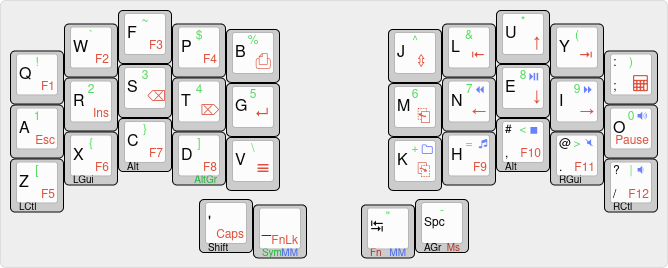
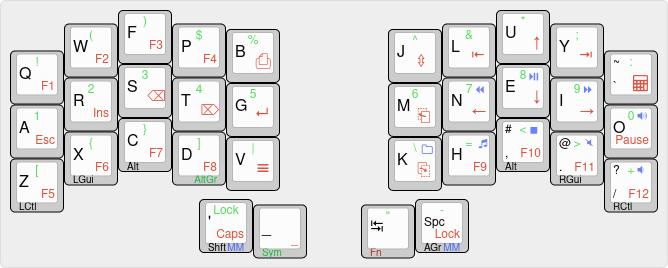
kolibri: Update documentation
* Num-pad versions of Sym layer
* Optimized Sym layers
* Sym layer locking
* Separate Media and Macro layers
* Three thumb-key version

diff --git a/keyboards/keebio/iris/keymaps/kolibri/readme.md b/keyboards/keebio/iris/keymaps/kolibri/readme.md
@@ -1,70 +1,134 @@
-![Layout Overview](kle-kolibri.png)
-
 # Kolibri
 
-Kolobri is a keymap for small ergonomic/split keyboards with 3x5 keys and 2 thumb keys per hand. It is designed to be fully functional, comfortable and intuitive to use, easy to learn and well suited for fast typing and programming. Major highlights are:
+Kolobri is a keymap for small ergonomic/split keyboards with 3x5 keys and 2 or 3 thumb keys per hand. It is designed to be fully functional, comfortable and intuitive to use, easy to learn and well suited for fast typing and programming.
+
+![Layout Overview](kle-kolibri.png)
+
+Major highlights are:
 
 * Shift, AltGr and layer keys on thumbs
 * Bottom-row mod-taps for remaining modifiers
 * Space, Tab, Underscore and Apostrophe on thumbs
+* Optimized Symbol layer
 * Per-key mod-tap configuration to favour "tap" on fingers and Space, "hold" on other thumb keys
 * Non-AltGr letters, symbols and numbers accessible with at most one modifier (either Shift or Sym layer key)
 * Most frequent keys on the home row: numbers, arrows, editing, Esc
 * One-handed use of arrow keys
-* Fn layer can be locked
-* Options for left or right-handed thumb clusters and Function layers
+* Function and Symbol layers can be locked
+* Options for num-pad, left or right-handed thumb clusters and Function layers
 
 _[Groma Kolibri](https://typewriterreview.com/2015/11/19/groma-kolibri/) was the brand of my father's mechanical typewriter, the first I ever learned typing on as a kid. Kolibri is also the German word for hummingbird. Those two associations make it a fitting name for a small keyboard layout._
 
 # Layer Design
 
-The basic keyboard functionality is on three layers: Base (e.g. Colemak or QWERTY), Sym, Fn. A fourth Ctl+Macro layer adds keyboard control (backlight, reset, etc.), media keys and macros. It is activated by holding both layer keys.
+The basic keyboard functionality is on three layers: Base (e.g. Colemak or QWERTY), Sym, Fn. Additional layers for less frequently used Media keys and Macros are activated by holding two thumb keys at the same time.
 
-The Fn layer can be locked. In this mode the Fn layer key temporarily activates a base-layer overlay to allow inserting a few characters without unlocking Fn. The Sym layer can also be activated on top of the locked Fn layer.
-
-An optional Mouse layer can be enabled via the locked Fn layer. With more thumb keys per hand it could have a dedicated layer key on the base layer.
+Both the Fn and Sym layer can be locked. In this mode the respective layer key temporarily activates a base-layer overlay to allow inserting a few characters without unlocking Fn/Sym. This is analogous to using Shift while CapsLock is enabled to type lower-case letters. The Sym layer can also be activated on top of the locked Fn layer and vice versa.
 
 Ctrl, Gui and Alt modifiers are consistent across all layers, in the outer columns of the bottom row.
+
+With a 3rd thumb key, Alt moves to the left thumb, reducing the number of bottom-row mod-taps.
+
+![36-key layout with num-pad](kle-kolibri36-numpad.png)
 
 ## Base Layer
 
 ```
- Q   W   F   P   B       J   L   U   Y   ;:
+ Q   W   F   P   B       J   L   U   Y   `~
 
  A   R   S   T   G       M   N   E   I   O
 
- Z   X   C   D   V       K   H   ,#  .@  /?
+ Z   X   C   D   V       K   H   ,@  .#  /?
 Ctl Gui Alt                     Alt Gui Ctl
              '   _      Tab Spc
            Shft Sym     Fn AltGr
 ```
 
-Other than the bottom-row mod-taps, the 3x5 finger keys are mostly standard Colemak or QWERTY, with two exceptions: The shifted symbols of ',' and '.' (normally '<' and '>') are moved to the Sym layer to avoid the thumb jumping between Shift and Sym for common bigrams such as '->', '<=' and '>='. They are replaced on the base layer with '#' and '@', which are not typically used in bigrams with other symbols.
+Other than the bottom-row mod-taps, the 3x5 finger keys are mostly standard Colemak or QWERTY, with three exceptions: The shifted symbols of ',' and '.' (normally '<' and '>') are moved to the Sym layer to avoid the thumb jumping between Shift and Sym for common bigrams such as '->', '<=' and '>='. They are replaced on the base layer with '@' and '#', which are not typically used in bigrams with other symbols. The ';:' key also moves to the Sym layer and is replaced with '`~' to further reduce layer switching while coding or typing emoticons.
 
 For right-handed users, Shift is on the left thumb, AltGr on the right. This choice dictates much of the rest of the thumb cluster layout. The left thumb activates the Sym layer that needs AltGr, and the right thumb activates the Fn layer that needs Shift. Space and Tab are on the right thumb and can be combined with Shift. Shift and Space, are on the home positions of the thumbs.
 
 Two symbols do not fit in the Sym layer and need to move to the left thumb on the base layer. Apostrophe and Underscore are convenient choices for typing and programming respectively. Apostrophe is placed on the Shift key to avoid the thumb jumping when typing "I'm". Underscore is on the Sym layer key, which forces the thumb to jump when typing "UPPER_CASE_MACRO" names and avoids accidentally activating a tap+hold of Underscore instead of holding Shift.
 
+### Three thumb-key version
+
+```
+ Q   W   F   P   B       J   L   U   Y   `~
+
+ A   R   S   T   G       M   N   E   I   O
+
+ Z   X   C   D   V       K   H   ,@  .#  /?
+Ctl Gui                              Gui Ctl
+        Alt  '   _      Tab Spc Del
+           Shft Sym      Fn    AltGr
+```
+
+A third thumb key is used to move Alt to the left thumb as a one-shot mod. This removes two bottom-row mod-taps from all layers. The one-shot mod makes Alt usable together with Shift and with the Sym layer.
+
+The third thumb key on the right is used to duplicate Del on the base layer. AltGr also moves to that key to make Space a single function key.
+
 ## Sym Layer
 
 ```
- !   `   ~   $   %       ^   &   *   (   )
+ !   (   )   $   %       ^   &   *   ;   :
 
  1   2   3   4   5       6   7   8   9   0
 
- [   {   }   ]   \       +   =   <   >   |
+ [   {   }   ]   |       \   =   <   >   +
 Ctl Gui Alt AGr                 Alt Gui Ctl
-            ___ ___      "   -
-                        C+M AGr
+            Lck ___      "   -
+           Media         Fn AltGr
+Locked:     Spc Tab      "   -
+                Base     Fn AltGr
 ```
 
-This layer works without the Shift key. Numbers are on the home row. The corresponding shifted number symbols are in the upper row (except '#' and '@', which are replacing '<' and '>' on the base layer). This should be intuitive for users of TKL keyboards.
+This layer works without the Shift key. Numbers are on the home row. The corresponding shifted number symbols are in the upper row (except '#' and '@', which are replacing '<' and '>' on the base layer and parentheses, which moved to a more comfortable and logical position on the left hand). This should be intuitive for users of TKL keyboards. ';' and ':' are close to their usual position in the top right.
 
-'<' and '>' keep their normal positions, so the only thing that changes is the "Shift" key used to activate them. '|' takes the place of '/'. '+' and '=' take the remaining right-hand bottom-row keys, which puts most of the common math and logical operators on the right hand.
+'<' and '>' keep their normal positions, so the only thing that changes is the "Shift" key used to activate them. The layer is optimized for comfortably typing common bigrams with '=' and '-' (e.g. <= >= != += -= := ->).
 
-The left bottom row has brackets, curly braces and '\\'. The nested arrangement of the brackets around the curly braces makes the "[]" bigram easier to type than having the closed bracket on the ring finger.
+The left bottom row has brackets. The nested arrangement of the brackets around the curly braces makes the "[]" bigram easier to type than having the closed bracket on the ring finger.
 
 The right thumb types double quotes and '-'. Since '-' is often surrounded by Space, it uses the same key as Space. That way the right thumb doesn't need to jump when typing such sequences. A second AltGr mod-tap key is added in the left bottom row to allow modifying the two symbols on the right thumb.
+
+The Sym layer can be locked by tapping the other left thumb key with the index finger while holding the Sym key with the thumb. The same key combination disables Sym layer lock again. The locked Sym layer adds Space and Tab keys on the left hand.
+
+Holding the two left thumb keys activates the Media layer for the right hand.
+
+### Num-pad version and three thumb keys
+
+```
+ \   (   )   $   %       ^   7   8   9   :
+
+ !   <   =   >   ;       *   4   5   6   -
+
+ [   {   }   ]   |       &   1   2   3   +
+Ctl Gui AGr                         Gui Ctl
+        Alt Lck ___      "   0   .
+           Media         Fn    AltGr
+Locked: Alt Spc Tab      "   0   .
+                Base     Fn    AltGr
+```
+
+This version of the Sym layer implements a num-pad in the right hand that is more familiar and comfortable for users doing numerical data entry. It tries to maintain commonality with the number row version of the Sym layer where practical. Common bigrams with '-' and '=' are optimized differently.
+
+The layer is shown above with three thumb keys. This moves Alt to the left thumb. It duplicates '.' on the 3rd thumb key on the right and also moves AltGr to that key for consistency with the base layer.
+
+## Left-handed num-pad
+
+```
+ |   7   8   9   %       ^   $   (   )   :
+
+ -   4   5   6   *       ;   [   {   }   ]
+
+ +   1   2   3   &       \   =   <   >   !
+Ctl Gui                         AGr Gui Ctl
+         .   0   "      ___ Lck Alt
+       AltGr     Fn        Media
+Locked:  .   0   "      Tab Spc Alt
+       AltGr     Fn    Base
+```
+
+When using the left-handed version of Kolibri, a different num-pad layer is used with the number keys on the left (AKA southpaw). Some of the other symbols are also moved around to keep '<' and '>' on their normal positions in the bottom row and maintain more commonality with the number row version.
 
 ## Fn Layer
 
@@ -75,10 +139,10 @@ Esc Ins  ⌫   ⌦   ↲     PgUp  ←   ↓   →  Paus
 
  F5  F6  F7  F8 Menu   PgDn  F9 F10 F11 F12
 Ctl Gui Alt                     Alt Gui Ctl
-           Caps FnLk    ___ ___
-           Shft C+M
-FnLk:      Caps  _      Tab Spc
-FnLk:      Shft Sym    Base Mouse
+           Caps  _      ___ Lck
+           Shft Sym        Macro
+Locked:    Caps  _      Tab Spc
+           Shft Sym    Base Mouse
 ```
 
 The Fn layer has an inverted-T arrow key cluster in the home position of the right hand. Home and End keys are left and right of the Up key. PageUp/Down are on the inner index-finger column, where there are no mod-taps affecting key-repeat. Like on a normal keyboard, the arrow keys can be used one-handed.
@@ -89,9 +153,11 @@ The F-keys are arranged in groups of four: F1-F4 in top-left, F5-F8 in bottom-le
 
 Tapping the Shift key on this layer toggles CapsLock.
 
-The Fn layer can be locked to reduce strain and free up the right thumb to type Space and Tab while editing or fixing indentation. The same key combination is used to lock and unlock the layer: hold Fn + tap FnLock. The locked Fn layer is below the Sym layer in the layer stack, so the Sym key still works on this layer. Holding the Fn key while the Fn layer is locked temporarily disables the Fn layer to allow typing text without unlocking Fn. This is analogous to using Shift while CapsLock is enabled to type lower-case letters.
+The Fn layer can be locked to reduce strain and free up the right thumb to type Space and Tab while editing or fixing indentation. The same key combination is used to lock and unlock the layer: hold Fn with the right thumb + tap Lck with the right index finger.
 
-AltGr is replaced by a Mouse layer key if mouse keys are enabled.
+AltGr is replaced by a Mouse layer key on the locked Fn layer if mouse keys are enabled.
+
+Holding the two right thumb keys activates the Macro layer for the left hand.
 
 ## Alternative Fn Layers (TODO)
 
@@ -102,8 +168,8 @@ Esc Ins  ⌫   ⌦   ↲     Calc  ←   ↓   ↑   →
 
  F5  F6  F7  F8 Menu   Paus  F9 F10 F11 F12
 Ctl Gui Alt                     Alt Gui Ctl
-           Caps FnLk    ___ ___
-           Shft C+M
+           Caps  _      ___ Lck
+           Shft Sym        Macro
 FnLk:      Caps  _      Tab Spc
 FnLk:      Shft Sym    Base Mouse
 ```
@@ -112,7 +178,7 @@ An alternative navigation layer puts all the arrow keys in the home row, and pag
 
 Arrow keys on the right hand enable one-handed navigation or lazy browsing with only one hand on the keyboard. Some users may prefer the arrow keys in the left hand to reduce strain from holding the layer key with the same thumb. That would move the editing keys and Esc to the right instead. This variant can be combined with either of the arrow-key layouts.
 
-## Ctrl+Macro Layer
+## Media and Macro Layers
 
 ```
 Rst(Prnt Up  Dn)Dbg   (Mode Spd Val Sat Hue )
@@ -121,10 +187,12 @@ Rst(Prnt Up  Dn)Dbg   (Mode Spd Val Sat Hue )
 [   User Macros    ]  [        Media        ]
 [M5  M6  M7  M8  M9]  [MyCm Sel Stp Mut Vol-]
 
-            ___ ___     ___ ___
+           Shft XXX     XXX Shft
 ```
 
-This layer controls QMK features (Reset, Dynamic tapping, Debug), RGB underglow, Media keys, and up to 10 personalized macros.
+These are implemented as two separate layers for the left and right hand, that are activated by holding the two thumb keys on the opposite hand. Each side has a functioning Shift key.
+
+The left hand controls QMK features (Reset, Dynamic tapping, Debug) and up do 10 personalized macros. The right hand controls RGB underglow and Media keys.
 
 TODO: special combination of thumb keys to reset all layer states and CapsLock.
 
@@ -149,7 +217,7 @@ The thumb keys have Shift and one key to control mouse acceleration.
 
 Kolibri works best for US-English QWERTY and Colemak layouts where the OS keymap is set to US-English or a derived International layout with extra symbols on an AltGr layer.
 
-Using Dvorak would require small changes to some symbol key positions since quotes would end up on the left pinky instead of thumb keys. Or Quotes could keep their Kolibri positions on the thumb keys and the left pinky gets ';:' instead.
+Using Dvorak would require small changes to some symbol key positions since quotes would end up on the left pinky instead of thumb keys. Or Quotes could keep their Kolibri positions on the thumb keys and the left pinky gets '`~' instead.
 
 Native support for other languages would require tweaks to the base and symbol layers. ISO keyboard layouts have one more key. To fit that, one key would need to move to the Fn layer.
 
@@ -157,26 +225,28 @@ Native support for other languages would require tweaks to the base and symbol l
 
 Split 3x5 keyboards are some of the most ergonomic keyboards available, as all keys are within easy reach without stretching or moving the hands. A popular layout for such keyboards is [Miryoku](https://github.com/manna-harbour/miryoku). But its use of home-row mods is not for everyone. Especially Shift as mod-tap on a home-row key leads to frequent ambiguity between mod+tap or tap-tap that can hurt typing flow.
 
-Kolibri is designed to be a fully functional alternative that is comfortable and intuitive to use with as little as possible getting in the way of typing or coding. It aims to be easy to remember and learn for anyone coming from a TKL or similar keyboard without a num-pad. Requiring only two thumb keys per hand makes it compatible with a wide range of keyboards out of the box.
+Kolibri is designed to be a fully functional alternative that is comfortable and intuitive to use with as little as possible getting in the way of typing or coding. It aims to be easy to remember and learn for anyone coming from a TKL or similar keyboard. There is also a version with a num-pad style Symbol layer. Requiring only two thumb keys per hand makes it compatible with a wide range of keyboards out of the box.
 
 For full functionality and comfort, all modifier+key combinations must be possible to type without reaching or straining. The thumbs can only hold two modifiers or layer keys at the same time. Therefore most modifiers have to be assigned to fingers, with no more than one modifier per finger. On a 3x5 layout this requires some keys to be dual-function keys. Modifier keys must be duplicated on both hands to avoid contortions and to make modifying any key possible.
 
 Shift and AltGr are conceptually layer switching keys, except they are handled by the host rather than the keyboard firmware. Placing them on thumb keys along with firmware layer switching keys feels intuitive, while minimizing the use of problematic mod-tap or layer-tap keys in the 3x5 typing area. Moving remaining mod-taps to less frequently used bottom-row keys further reduces the impact on typing flow. Per-key mod-tap configuration can unambiguously favour "tap" on fingers and Space, and "hold" on Shift and layer thumb keys.
 
+With three thumb keys per hand, Alt can be made a one-shot-mod on a thumb key to further minimize bottom-row mods.
+
 ## Design Choices and Constraints
 
-* 3x5 with 2 thumb keys per hand
+* 3x5 with 2 thumb keys per hand (3rd key optional)
 * Shift, AltGr and layer keys on the thumbs
-* Bottom-row mods for Ctrl, Gui, Alt
+* Bottom-row mods for Ctrl, Gui, (Alt with 2 thumb keys per hand)
 * Space and Tab on thumbs on the base layer
 * Only one Space and one Shift key
 * Use home row for most frequent keys on layers: editing, navigation, numbers
 * Esc on the home row for use in Vim
 * One-handed arrow keys for lazy browsing
 
-With Shift and AltGr on thumbs, the remaining thumb keys are are too few for many Miryoku-style one-handed layers. Therefore this keymap uses fewer layers, which span both hands. Consequently mod-tap modifiers are needed on both hands on all layers to allow all modifier+key combinations, and combinations of thumb modifier/layer with same-hand finger keys are common by design.
+With Shift and AltGr on thumbs, the remaining thumb keys are are too few for many Miryoku-style one-handed layers. Therefore this keymap uses fewer layers, which span both hands. Consequently mod-tap modifiers are needed on both hands on all layers to allow all modifier+key combinations.
 
-This design choice is prominently applied to arrow keys, which are on the same hand as the Fn layer key, so they can be used with one hand for lazy browsing and navigation in documents.
+Combinations of a thumb modifier/layer key with same-hand finger keys are common by design. This design choice is prominently applied to arrow keys, which are on the same hand as the Fn layer key, so they can be used with one hand for lazy browsing and navigation in documents.
 
 Shift and AltGr must be on opposite thumbs to allow Shift+AltGr combinations. Right-handed users need Shift on the left thumb so it can be used as a modifier with the mouse. Space and Tab must be on the right thumb to allow combinations with Shift. The layer descriptions assume right-handedness. However, a version with flipped thumb-cluster is available for left-handed users.
 
@@ -184,14 +254,16 @@ Layers can use either Shift or AltGr, but not both, because one thumb is already
 
 Mod-tap keys require two presses in quick succession to enable key-repeat. Therefore keys that are frequently used with key-repeat, such as arrow keys, will not be placed on bottom-row modifier keys.
 
-All four thumb keys are dual-function keys. With 3 thumb keys per hand, Space and Shift could be made single-function keys. The choice of "tap" functions of the base layer thumb keys is driven both by utility on the base layer and space-constraints on the Sym layer:
+All four thumb keys are dual-function keys. With three thumb keys per hand, Space can be made a single-function key. The choice of "tap" functions of the base layer thumb keys is driven both by utility on the base layer and space-constraints on the Sym layer:
 
 * Space (obvious)
 * Tab (Tab-completion, Alt+Tab, switching between UI elements, indentation)
 * Underscore (snake_case names when programming)
 * Apostrophe (I'm sure this doesn't need an explanation. It's obvious, isn't it?)
+* 3rd left thumb-key: one-shot Alt
+* 3rd right thumb-key: duplicate Del (one-handed Delete in GUI apps)
 
-Enter is deliberately not on a thumb key to avoid pressing it accidentally. Backspace and Delete are quicker and more comfortable to hit repeatedly with one of the strong fingers on the Fn layer.
+Enter is deliberately not on a thumb key to avoid pressing it accidentally when switching layers. Backspace and Delete are quicker and more comfortable to hit repeatedly with one of the strong fingers on the Fn layer. However, a one-handed duplicate Del key is available on an optional 3rd thumb key.
 
 # QMK hacks
 
@@ -205,17 +277,19 @@ To make the tap-function of mod-taps on layers behave intuitively, a fix for [Bu
 
 ## Mod-Tap with Shifted Symbols
 
-Mod-Tap only works with 8-bit keycodes. Extended keycodes that apply a modifier (e.g. Shift for upper case letters) don't work with it out of the box. The QMK documentation suggests a [workaround that intercepts `process_record_user` and sends 16 bit keycodes with `tap_code16`](https://docs.qmk.fm/#/mod_tap?id=intercepting-mod-taps). I modified this idea to use the proper `register_code16` and `unregister_code16` calls to get tap+hold key-repeat.
+Mod-Tap only works with 8-bit keycodes. Extended keycodes that apply a modifier (e.g. Shift for upper case letters) don't work with it out of the box. The QMK documentation suggests a [workaround that intercepts `process_record_user` and sends 16 bit keycodes with `tap_code16`](https://docs.qmk.fm/#/mod_tap?id=intercepting-mod-taps). I modified this idea to use the proper `register_code16` and `unregister_code16` calls to get tap+hold key-repeat. The Shift modifier is cleared immediately with `clear_weak_mods` to prevent it from affecting the next tap of another key within the tapping term.
 
 ## Moving '<' and '>' to the Sym layer
 
 Replacing '<' and '>' on the base layer is done with a small hack in `process_record_user` that sends different keycodes when `KC_COMM` or `KC_DOT` are pressed with Shift held. Some more care is taken to release the modified keys correctly even if Shift is released first.
 
-## Fn layer lock
+## Layer lock
 
-The locked layer is mostly a copy of the normal layer but with different thumb-key assignments. This allows overriding the locked Fn layer with Sym or a base layer overlay. And it keeps the key combination to get to the Ctl+Macro layer consistent in all cases.
+Sym and Fn layers can be locked. The locked layer is mostly a copy of the normal layer but with different thumb-key assignments. This allows overriding the locked Fn layer with Sym and vice versa, and enables a base layer overlay. And it keeps the key combination for locking and unlocking and to get to the Media and Macro layers consistent in all cases.
 
-The FnLock key is also a layer-tap key for the Sym layer. Therefore I cannot simply use `TG(L_NAV_FN_LOCKED)`, which is a 16-bit key code that doesn't work with `LT`. Instead I hijacked an unused 8-bit keycode for this key and process it myself in `process_record_user`.
+The layer lock keys are also layer-tap keys to get to the Media or Macro layer. Therefore one cannot simply use `TG(L_NAV_FN_LOCKED)`, which is a 16-bit key code that doesn't work with `LT`. Instead Kolibri hijacks two unused 8-bit keycodes for these keys and processes them manually in  `process_record_user`.
+
+Locking Fn unlocks Sym and vice versa to minimize the amount of layer state users need to keep track of in their head.
 
 # LICENSE
 Copyright 2022 Felix Kuehling <felix.kuehling@gmail.com>
